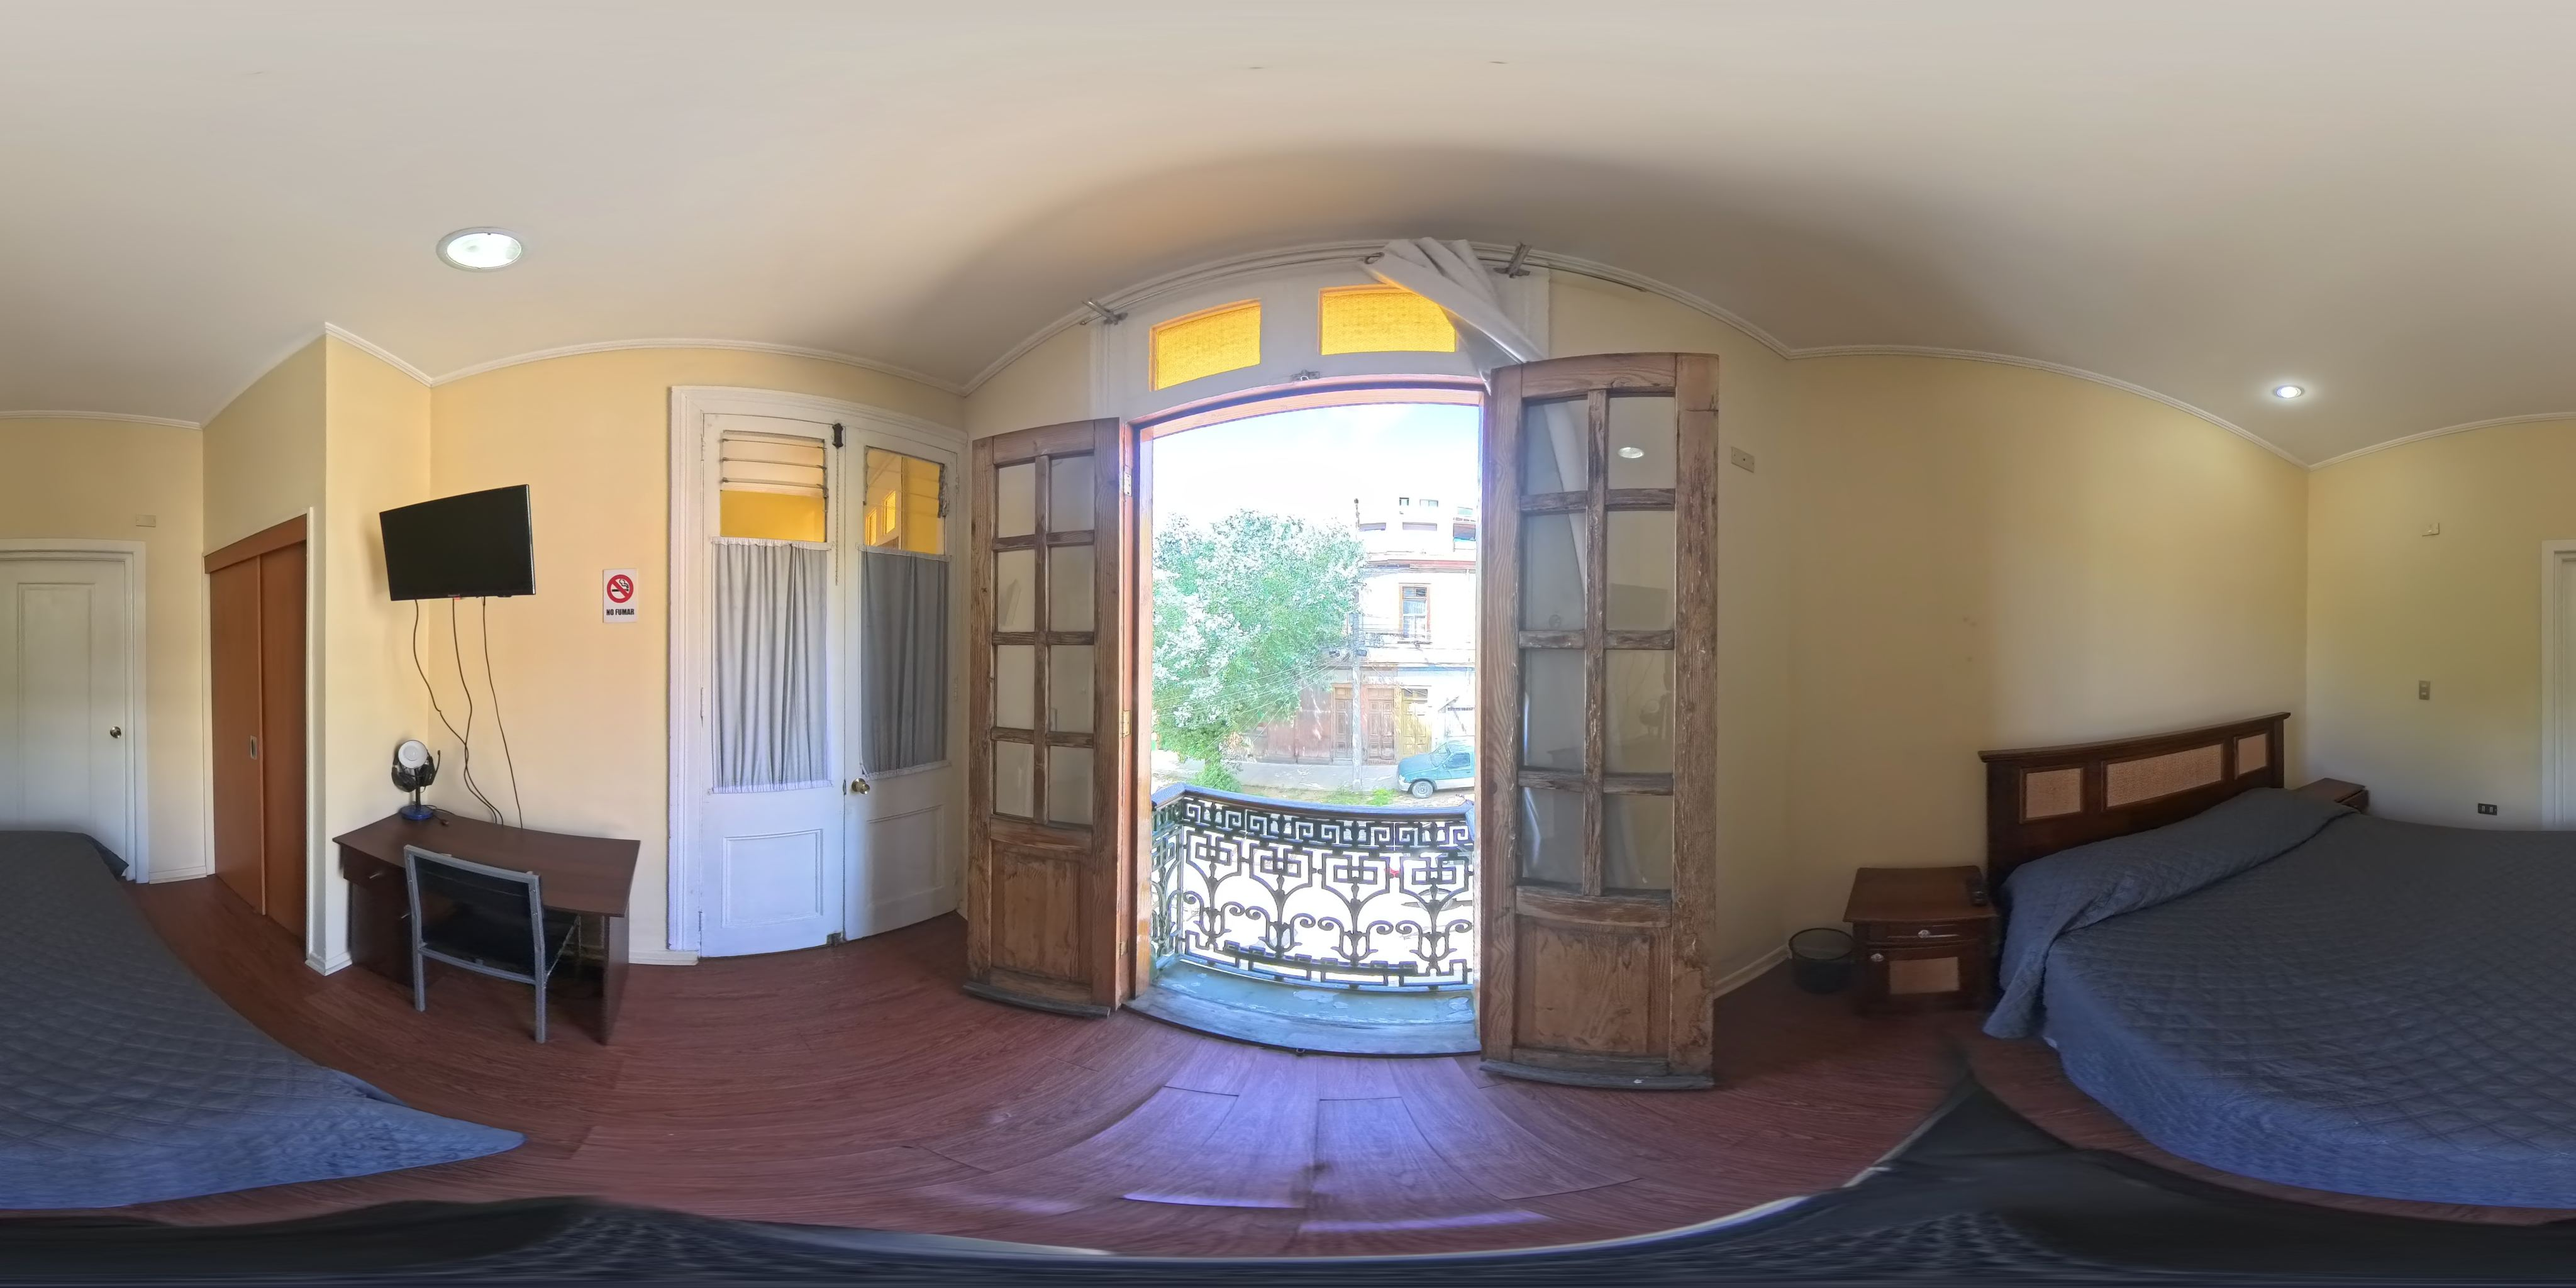
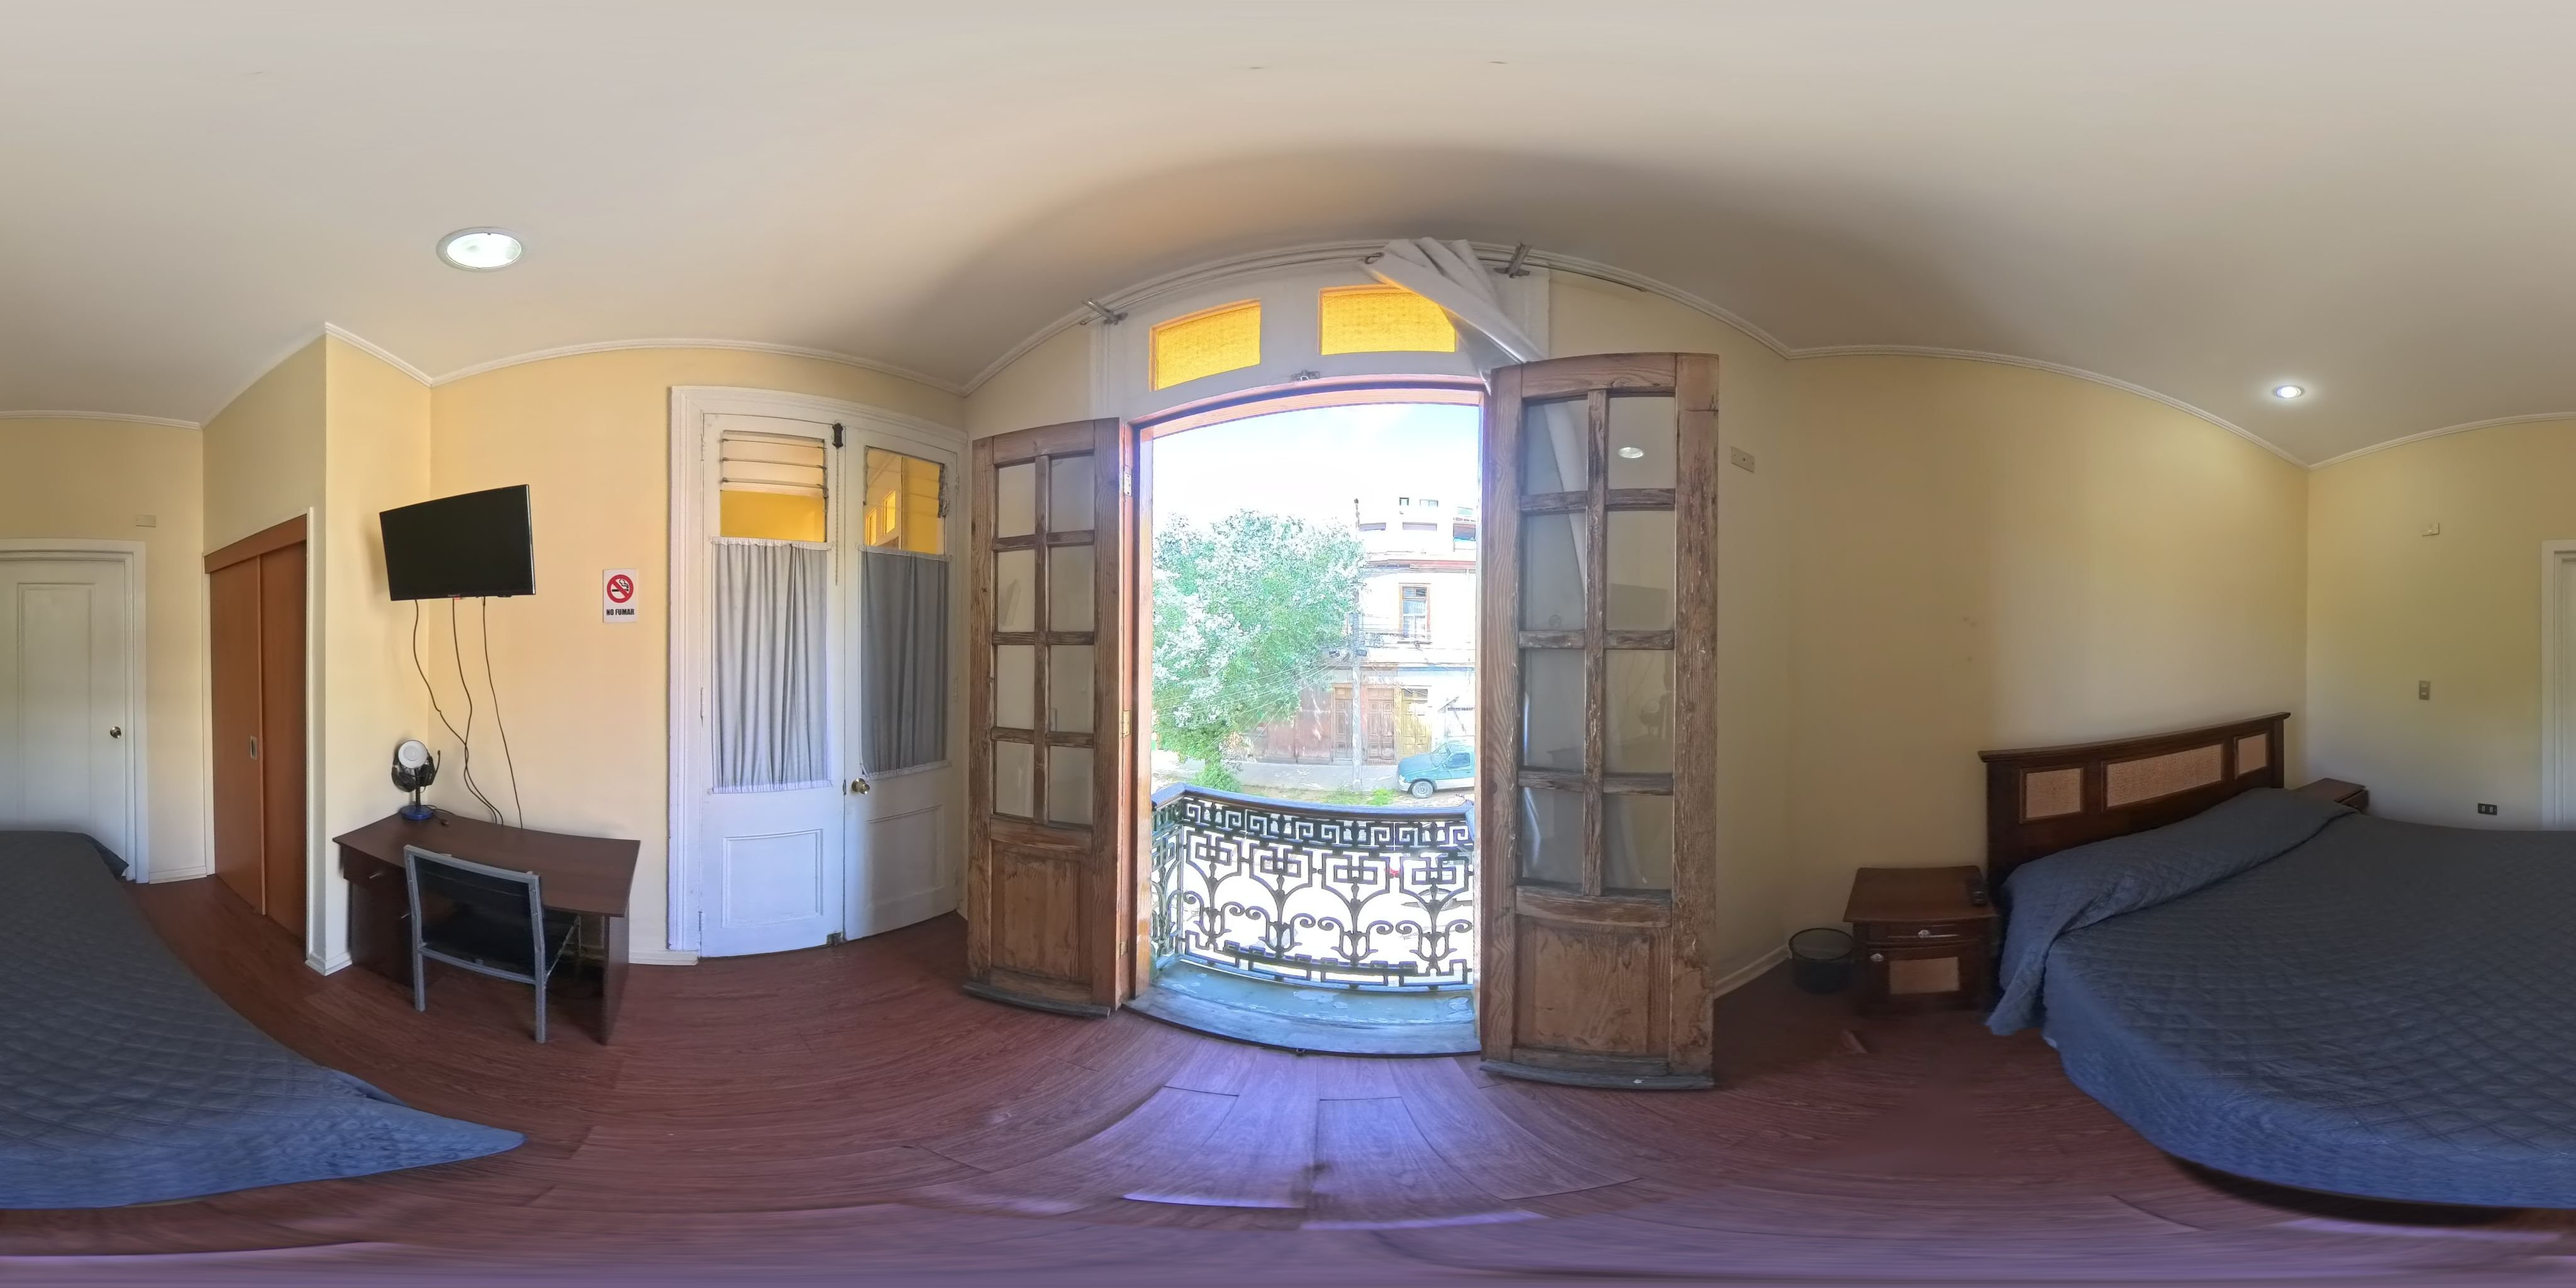
Habitación 21: teléfono antiguo sonando y fotos sin base del trípode

Changed region(s): [[0.0, 0.8438, 1.0, 1.0]]

diff --git a/index.html b/index.html
@@ -273,7 +273,15 @@ legend small { font-weight: 400; color: var(--muted); }
 .hs.hs-rule { width: auto; height: 32px; border-radius: 99px; padding: 0 11px 0 9px; gap: 6px; grid-auto-flow: column; background: var(--accent-hero, #ffc62e); color: var(--accent-ink, #16212c); font: 700 .78rem/1 var(--f-body); white-space: nowrap; }
 .hs.hs-rule svg { width: 15px; height: 15px; }
 .folder-pin { display: grid; justify-items: center; gap: 4px; cursor: pointer; transform-origin: 50% 100%; animation: fold-bob 1.9s ease-in-out infinite; filter: drop-shadow(0 8px 12px rgba(0,0,0,.5)); }
-.folder-pin svg { width: 128px; height: auto; display: block; }
+.folder-pin svg { width: 112px; height: auto; display: block; }
+.folder-pin svg.phone { width: 140px; overflow: visible; }
+.folder-pin .body { transform-box: fill-box; transform-origin: 50% 100%; animation: phone-body 1.6s ease-in-out infinite; }
+.folder-pin .handset { transform-box: fill-box; transform-origin: 50% 100%; animation: phone-ring 1.6s ease-in-out infinite; }
+@keyframes phone-body { 0%, 40%, 100% { transform: translateX(0); } 5%, 15%, 25% { transform: translateX(-1.5px); } 10%, 20%, 30% { transform: translateX(1.5px); } }
+.folder-pin .ring path { stroke: #fff; stroke-width: 4; filter: drop-shadow(0 0 2px rgba(0,0,0,.8)); }
+.folder-pin .ring { opacity: 0; animation: phone-waves 1.6s ease-out infinite; }
+@keyframes phone-ring { 0%, 42%, 100% { transform: rotate(0) translateY(0); } 4% { transform: rotate(-12deg) translateY(-3px); } 8% { transform: rotate(11deg) translateY(-3px); } 12% { transform: rotate(-11deg) translateY(-3px); } 16% { transform: rotate(10deg) translateY(-3px); } 20% { transform: rotate(-9deg) translateY(-2px); } 24% { transform: rotate(8deg) translateY(-2px); } 28% { transform: rotate(-6deg); } 32% { transform: rotate(4deg); } 36% { transform: rotate(-2deg); } }
+@keyframes phone-waves { 0% { opacity: 0; } 6%, 34% { opacity: 1; } 44%, 100% { opacity: 0; } }
 .folder-pin .bubble { position: relative; background: #fff; color: #16212c; font: 800 1rem/1 var(--f-body); padding: 7px 12px; border-radius: 99px; border: 2.5px solid #16212c; white-space: nowrap; }
 .folder-pin .bubble::after { content: ""; position: absolute; left: 50%; bottom: -8px; width: 10px; height: 10px; background: #fff; border-right: 2.5px solid #16212c; border-bottom: 2.5px solid #16212c; transform: translateX(-50%) rotate(45deg); }
 .folder-pin:hover { animation-play-state: paused; transform: scale(1.08); }
@@ -336,7 +344,7 @@ section.block .steps { grid-template-columns: repeat(auto-fit, minmax(min(100%, 
 .psv-virtual-tour-link:hover .tl-ico { transform: scale(1.12); }
 .tour-pick { position: absolute; z-index: 96; top: 10px; left: 50%; transform: translateX(-50%); background: #ffd84d; color: #16212c; border-radius: 8px; padding: 6px 12px; font: 600 .85rem var(--f-mono); }
 
-@media (prefers-reduced-motion: reduce) { * { scroll-behavior: auto !important; } .hs, .folder-pin { animation: none; } }
+@media (prefers-reduced-motion: reduce) { * { scroll-behavior: auto !important; } .hs, .folder-pin, .folder-pin .handset, .folder-pin .body { animation: none; } .folder-pin .ring { opacity: 1; animation: none; } }
 </style>
 <style id="psv-css">
 /*!
@@ -2204,7 +2212,30 @@ const I = (id, yaw, pitch, title, text) => ({ id, yaw, pitch, title, text });
 // Punto de reglamento: refs = [[idSección, [índices de items]?], ...] del REGLAMENTO de la página
 const R = (id, yaw, pitch, title, refs) => ({ id: "regla-" + id, yaw, pitch, title, refs, rule: true });
 // Carpeta dibujada sobre la cama: abre la ficha de la pieza con WhatsApp para agendar la visita
-const F = (yaw, pitch, code) => ({ id: "carpeta-" + code, yaw, pitch, title: "Pincha aquí", code, folder: true });
+const F = (yaw, pitch, code) => ({ id: "carpeta-" + code, yaw, pitch, title: "Agenda tu visita", code, folder: true });
+// Auricular de teléfono antiguo sonando (reemplaza el globo de texto)
+const PHONE_SVG = `<svg class="phone" viewBox="-6 0 152 112" aria-hidden="true">
+  <g class="ring ring-l" fill="none" stroke-linecap="round"><path d="M14 22 Q6 33 14 44"/><path d="M3 14 Q-8 33 3 52"/></g>
+  <g class="ring ring-r" fill="none" stroke-linecap="round"><path d="M126 22 Q134 33 126 44"/><path d="M137 14 Q148 33 137 52"/></g>
+  <g class="body">
+    <path d="M30 60 Q34 47 50 45 L90 45 Q106 47 110 60 L119 98 Q120 106 111 106 L29 106 Q20 106 21 98 Z" fill="#c8342b" stroke="#3b0d08" stroke-width="3" stroke-linejoin="round"/>
+    <path d="M38 58 Q42 51 52 50 L70 50" fill="none" stroke="#f08a7e" stroke-width="3" stroke-linecap="round"/>
+    <rect x="40" y="36" width="9" height="12" rx="2" fill="#8f1f18" stroke="#3b0d08" stroke-width="2.5"/>
+    <rect x="91" y="36" width="9" height="12" rx="2" fill="#8f1f18" stroke="#3b0d08" stroke-width="2.5"/>
+    <circle cx="70" cy="76" r="20" fill="#f6ead2" stroke="#3b0d08" stroke-width="3"/>
+    <circle cx="58.3" cy="82.8" r="3.1" fill="#3b0d08"/><circle cx="56.5" cy="76.0" r="3.1" fill="#3b0d08"/><circle cx="58.3" cy="69.2" r="3.1" fill="#3b0d08"/><circle cx="63.2" cy="64.3" r="3.1" fill="#3b0d08"/><circle cx="70.0" cy="62.5" r="3.1" fill="#3b0d08"/><circle cx="76.8" cy="64.3" r="3.1" fill="#3b0d08"/><circle cx="81.7" cy="69.2" r="3.1" fill="#3b0d08"/><circle cx="83.5" cy="76.0" r="3.1" fill="#3b0d08"/><circle cx="81.7" cy="82.8" r="3.1" fill="#3b0d08"/><circle cx="76.8" cy="87.7" r="3.1" fill="#3b0d08"/>
+    <circle cx="70" cy="76" r="6.5" fill="#c8342b" stroke="#3b0d08" stroke-width="2"/>
+    <path d="M84 62 L89 57" stroke="#3b0d08" stroke-width="3" stroke-linecap="round"/>
+  </g>
+  <g class="handset">
+    <path d="M30 30 Q70 16 110 30" fill="none" stroke="#3b0d08" stroke-width="15" stroke-linecap="round"/>
+    <path d="M30 30 Q70 16 110 30" fill="none" stroke="#c8342b" stroke-width="9" stroke-linecap="round"/>
+    <path d="M48 23 Q60 19 72 19" fill="none" stroke="#f08a7e" stroke-width="3" stroke-linecap="round"/>
+    <path d="M14 30 Q15 22 26 22 L40 23 Q47 24 46 31 L44 38 Q42 43 34 43 L22 43 Q13 43 14 36 Z" fill="#c8342b" stroke="#3b0d08" stroke-width="3" stroke-linejoin="round"/>
+    <path d="M126 30 Q125 22 114 22 L100 23 Q93 24 94 31 L96 38 Q98 43 106 43 L118 43 Q127 43 126 36 Z" fill="#c8342b" stroke="#3b0d08" stroke-width="3" stroke-linejoin="round"/>
+    <path d="M20 28 Q24 25 32 25" fill="none" stroke="#f08a7e" stroke-width="2.5" stroke-linecap="round"/>
+  </g>
+</svg>`;
 const FOLDER_SVG = (code) => `<svg viewBox="0 0 120 92" aria-hidden="true">
   <path d="M8 22 Q7 14 15 14 L44 13 Q49 13 52 18 L56 24 L104 23 Q113 23 112 32 L110 80 Q110 87 102 87 L17 88 Q9 88 9 80 Z" fill="#d99a2b" stroke="#3b2608" stroke-width="3" stroke-linejoin="round"/>
   <path d="M22 12 L88 8 Q93 8 94 13 L97 60 L25 64 Z" fill="#fffdf6" stroke="#3b2608" stroke-width="2.5" stroke-linejoin="round" transform="rotate(-4 60 36)"/>
@@ -2346,9 +2377,9 @@ const toPsv = t => t.nodes.map(n => ({
   id: n.id, panorama: t.dir + n.id + ".jpg", name: n.name, links: n.links, data: { tab: n.tab, look: n.look, face: n.face },
   markers: n.info.map(m => ({
     id: n.id + "-" + m.id, position: { yaw: m.yaw + "deg", pitch: m.pitch + "deg" },
-    html: m.folder ? '<span class="folder-pin"><span class="bubble">¡Pincha aquí!</span>' + FOLDER_SVG(m.code) + '</span>'
+    html: m.folder ? '<span class="folder-pin" aria-label="Llamar para agendar una visita">' + PHONE_SVG + '</span>'
         : m.rule ? '<span class="hs hs-rule" aria-hidden="true">' + window.ICONS_LIBRO + 'Reglas</span>' : '<span class="hs" aria-hidden="true">i</span>',
-    size: m.folder ? { width: 150, height: 150 } : m.rule ? { width: 86, height: 32 } : { width: 34, height: 34 }, anchor: "center center",
+    size: m.folder ? { width: 150, height: 130 } : m.rule ? { width: 86, height: 32 } : { width: 34, height: 34 }, anchor: "center center",
     tooltip: { content: m.title, position: "top center" }, data: m
   }))
 }));
@@ -2365,12 +2396,9 @@ function showCard(m) {
   eb.hidden = !m.rule && !m.folder; eb.textContent = m.rule ? "Reglamento de convivencia" : m.folder ? "Ficha de la pieza · " + m.code : "";
   if (m.folder) {
     const r = rooms.find(x => x.code === m.code) || DEFAULT_ROOMS.find(x => x.code === m.code);
-    const esc2 = t => String(t).replace(/[&<>"]/g, c => ({ "&": "&amp;", "<": "&lt;", ">": "&gt;", '"': "&quot;" }[c]));
     $("#tourCardTitle").textContent = r ? r.name : m.code;
     const msg = "Hola, vi la " + (r ? r.name : "pieza") + " (" + m.code + ") de " + T.name + " en el recorrido 360° de la página y me gustaría agendar una visita. ¿Qué horarios tienen?";
-    $("#tourCardText").innerHTML = (r ? '<div class="fold-price">' + priceText(r).replace(/\/(mes|noche)/, " <small>/$1</small>") + "</div>" +
-        '<ul class="fold-specs">' + r.specs.map(x => "<li>" + esc2(x) + "</li>").join("") + "</ul>" : "") +
-      '<div class="fold-actions"><a class="btn btn-wa" target="_blank" rel="noopener" href="https://wa.me/' + CONFIG.whatsapp + "?text=" + encodeURIComponent(msg) + '">Agendar visita por WhatsApp</a>' +
+    $("#tourCardText").innerHTML = '<div class="fold-actions"><a class="btn btn-wa" target="_blank" rel="noopener" href="https://wa.me/' + CONFIG.whatsapp + "?text=" + encodeURIComponent(msg) + '">Agendar visita por WhatsApp</a>' +
       '<button type="button" class="btn btn-ghost" data-pick-slot>Elegir día y hora</button></div>';
     card.querySelector("[data-pick-slot]").onclick = () => { closeTour(); const sw = document.querySelector(".switch button[data-house=" + (r ? r.house : "pocuro") + "]"); if (sw && document.body.dataset.house !== sw.dataset.house) sw.click(); openSheet(m.code, "visita"); };
     card.hidden = false; card.scrollTop = 0; return;
